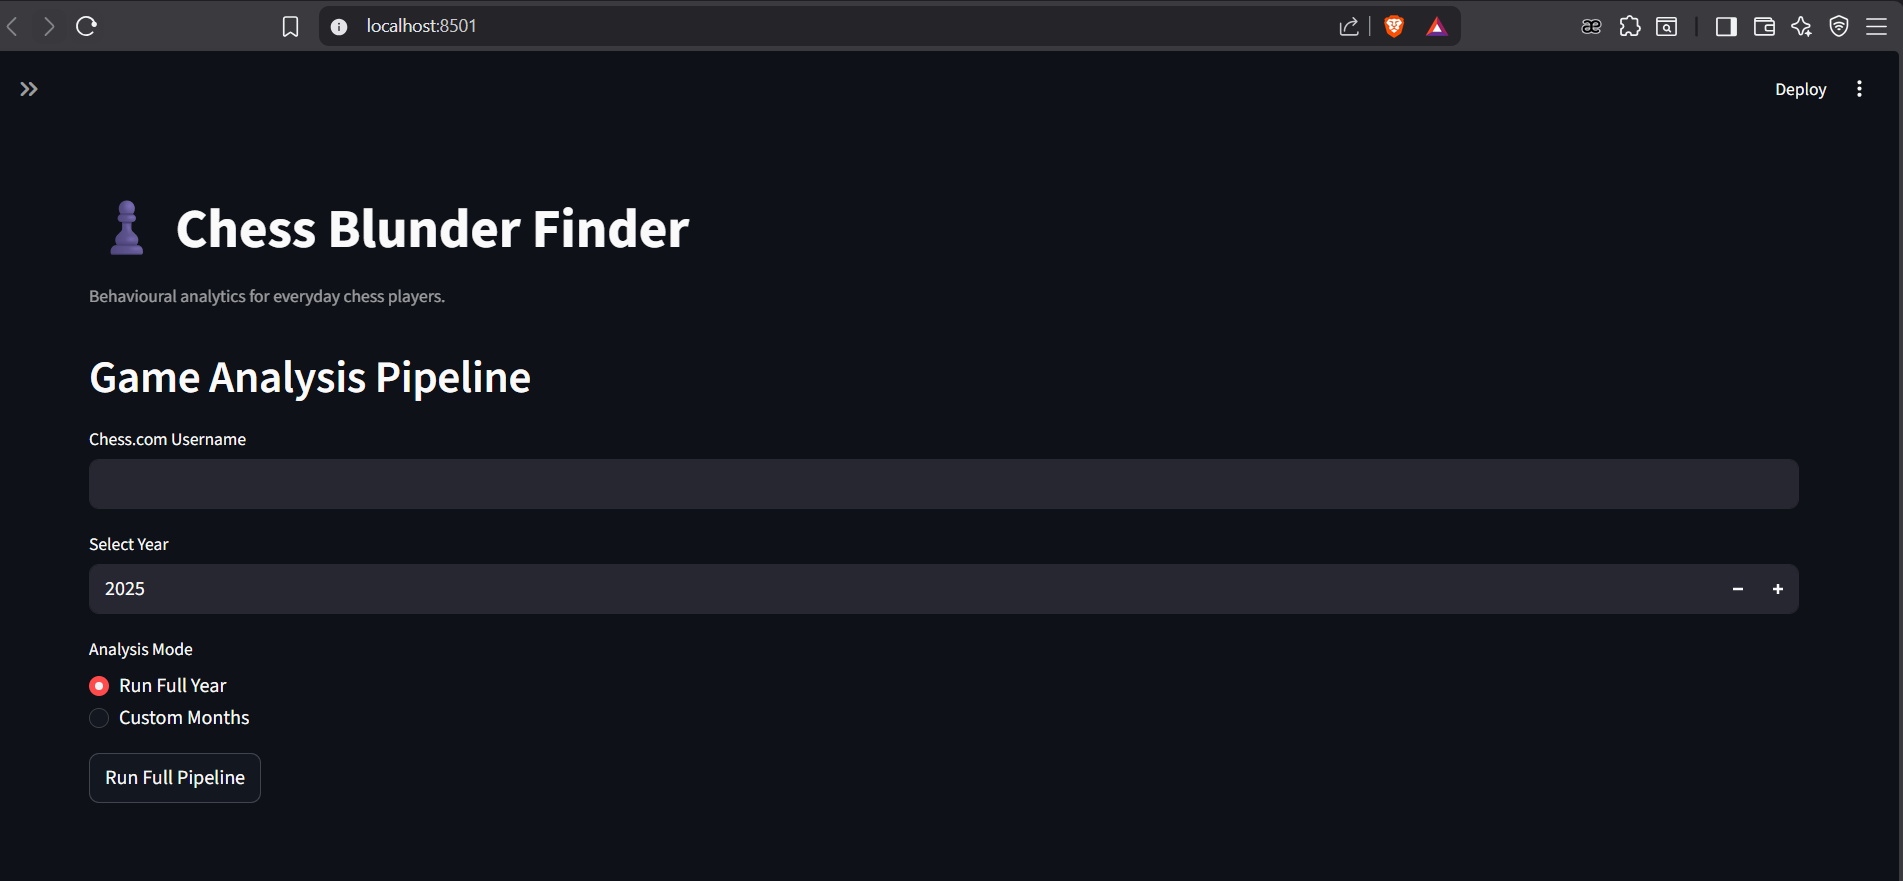
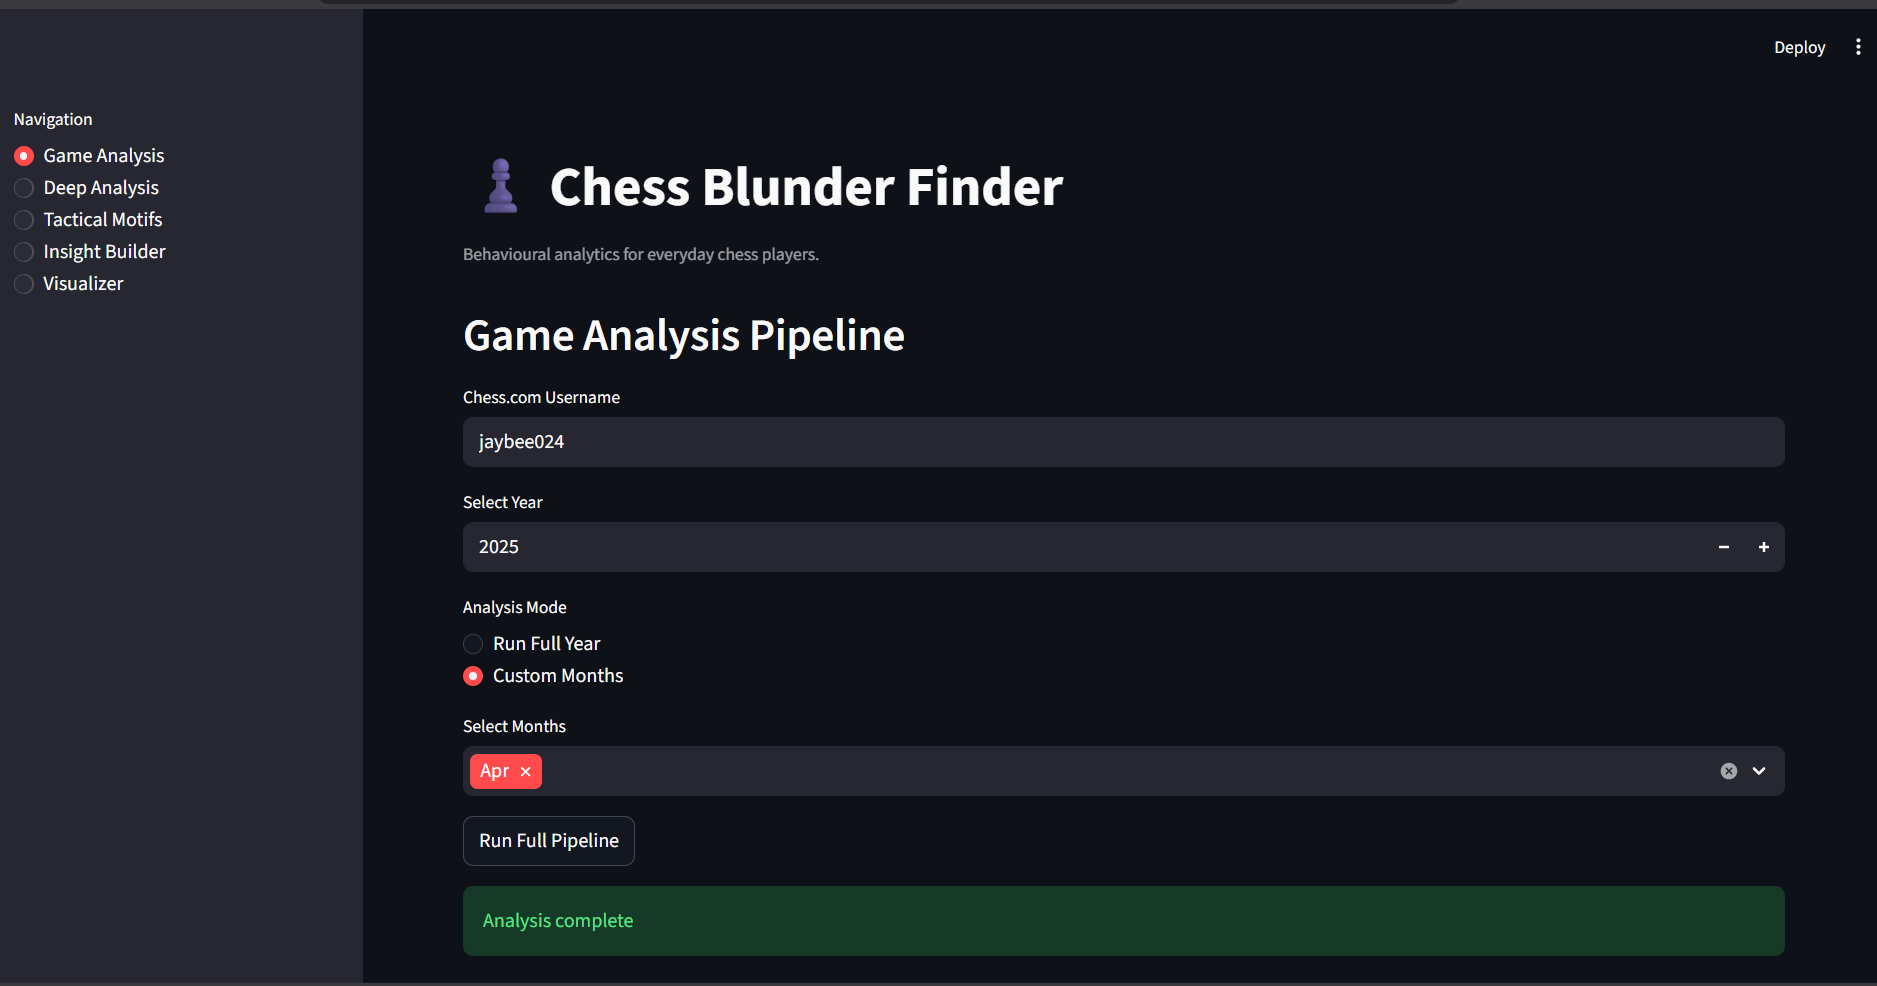
Updated README with Power BI dashboard screenshots and project documentation

diff --git a/README.md b/README.md
@@ -131,6 +131,37 @@ You often mistake in the opening with fork.
 ![Streamlit App](screenshots/app_interface.png)
 
 ---
+## Power BI Dashboard
+
+This project includes a Power BI dashboard built on top of a structured SQL database.
+
+### Key Features
+
+- Blunder distribution across game phases
+- Tactical motif analysis (forks, pins, skewers, traps)
+- Error trends over time
+- Performance comparison across time controls
+
+### Dataset Summary
+
+- ~292 games analysed
+- ~9,900 moves evaluated using Stockfish
+- Tactical motifs extracted and normalised for analysis
+
+### Data Pipeline
+
+Chess.com API → Python → Stockfish → CSV → SQLite → Power BI
+
+### Dashboard Preview
+
+#### Performance Overview
+![Performance Overview](screenshots/overview.png)
+
+#### Tactical Motifs Analysis
+![Tactical Motifs](screenshots/motifs.png)
+
+#### Game Trends
+![Game Trends](screenshots/trends.png)
 
 ## Future Improvements
 